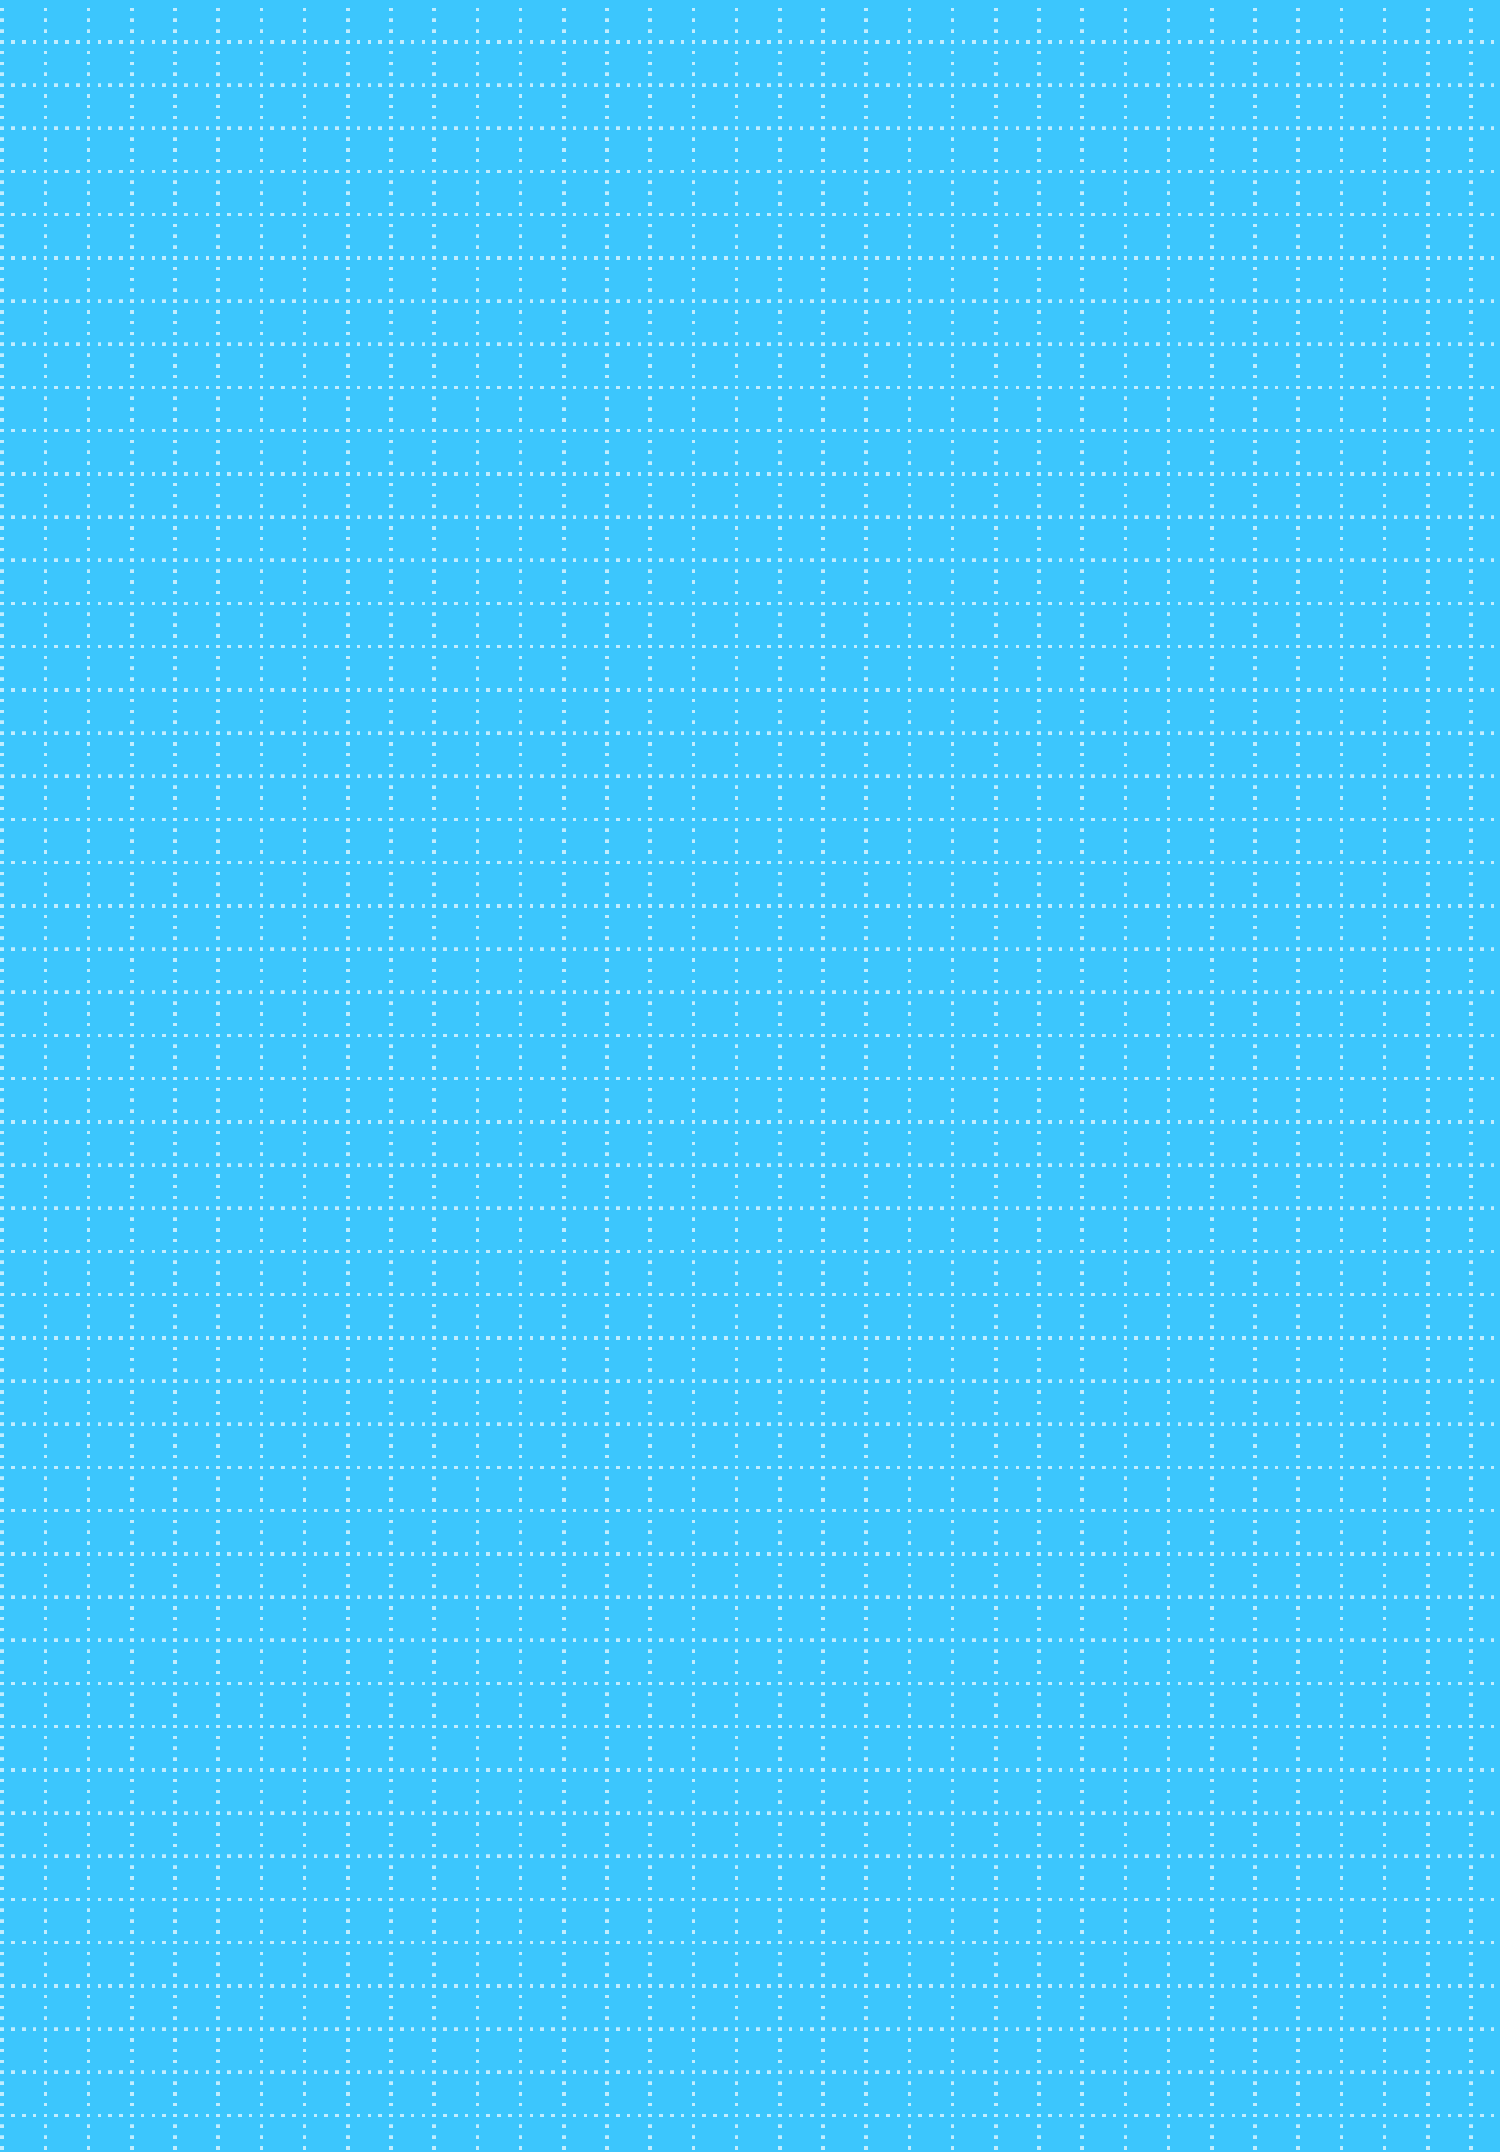
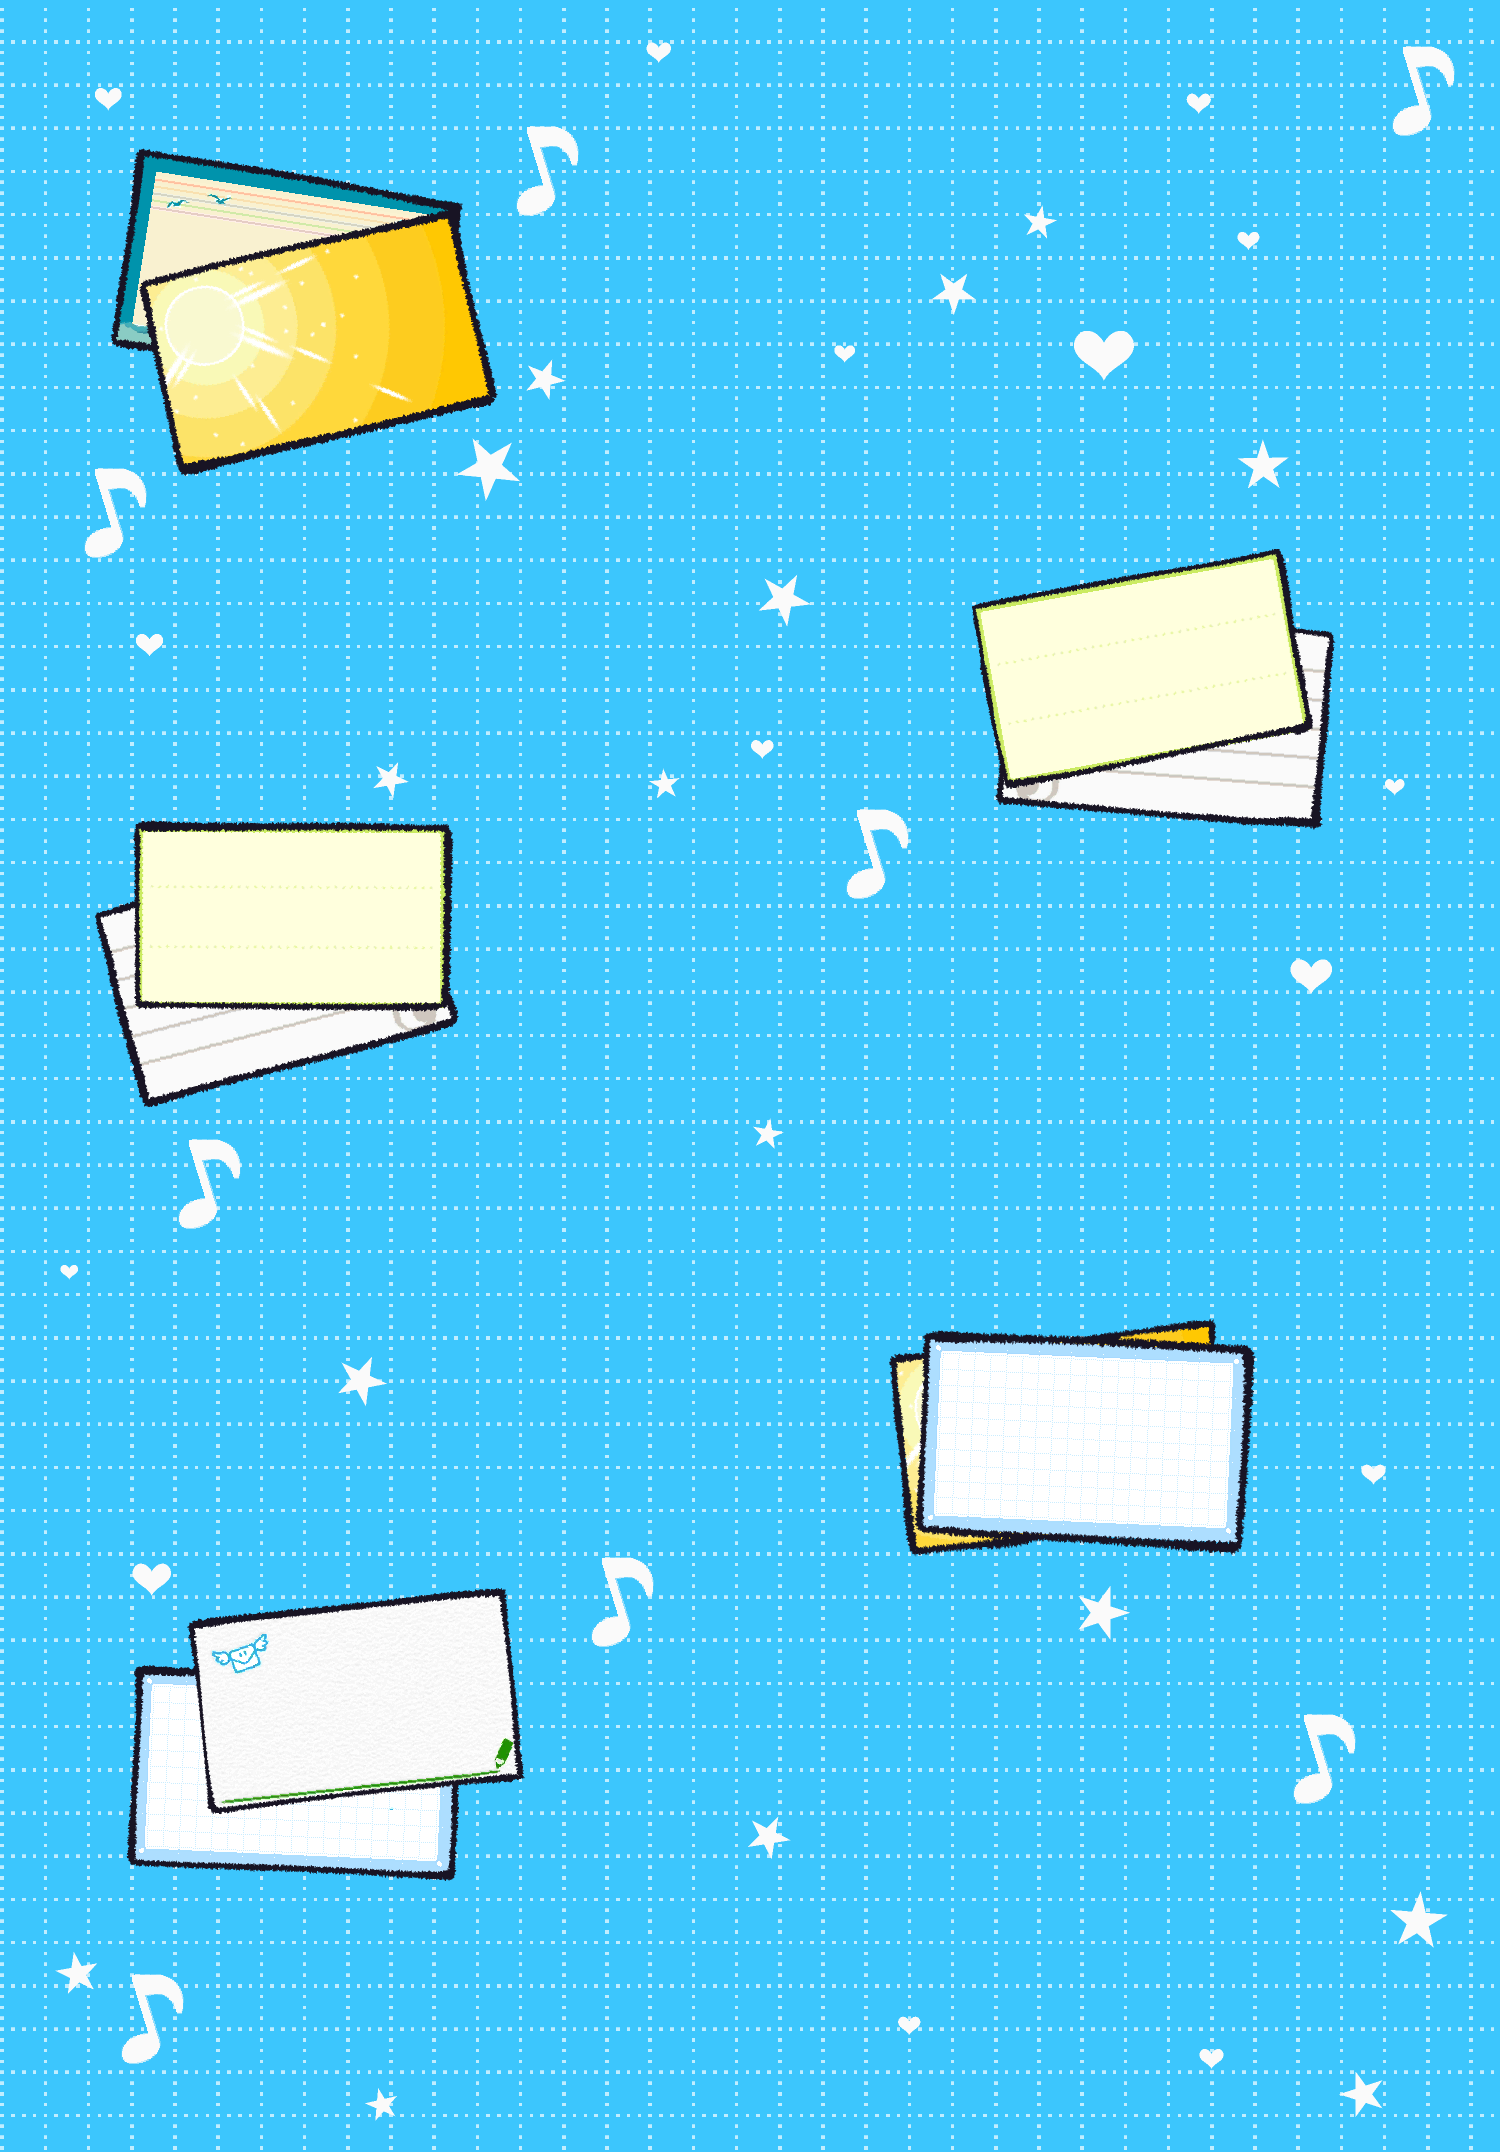
even more styling
changed header image, changed background, changed  navbar image

diff --git a/client/src/components/PostList/dist/PostList.js b/client/src/components/PostList/dist/PostList.js
@@ -1,0 +1,119 @@
+"use strict";
+var __awaiter = (this && this.__awaiter) || function (thisArg, _arguments, P, generator) {
+    function adopt(value) { return value instanceof P ? value : new P(function (resolve) { resolve(value); }); }
+    return new (P || (P = Promise))(function (resolve, reject) {
+        function fulfilled(value) { try { step(generator.next(value)); } catch (e) { reject(e); } }
+        function rejected(value) { try { step(generator["throw"](value)); } catch (e) { reject(e); } }
+        function step(result) { result.done ? resolve(result.value) : adopt(result.value).then(fulfilled, rejected); }
+        step((generator = generator.apply(thisArg, _arguments || [])).next());
+    });
+};
+var __generator = (this && this.__generator) || function (thisArg, body) {
+    var _ = { label: 0, sent: function() { if (t[0] & 1) throw t[1]; return t[1]; }, trys: [], ops: [] }, f, y, t, g;
+    return g = { next: verb(0), "throw": verb(1), "return": verb(2) }, typeof Symbol === "function" && (g[Symbol.iterator] = function() { return this; }), g;
+    function verb(n) { return function (v) { return step([n, v]); }; }
+    function step(op) {
+        if (f) throw new TypeError("Generator is already executing.");
+        while (_) try {
+            if (f = 1, y && (t = op[0] & 2 ? y["return"] : op[0] ? y["throw"] || ((t = y["return"]) && t.call(y), 0) : y.next) && !(t = t.call(y, op[1])).done) return t;
+            if (y = 0, t) op = [op[0] & 2, t.value];
+            switch (op[0]) {
+                case 0: case 1: t = op; break;
+                case 4: _.label++; return { value: op[1], done: false };
+                case 5: _.label++; y = op[1]; op = [0]; continue;
+                case 7: op = _.ops.pop(); _.trys.pop(); continue;
+                default:
+                    if (!(t = _.trys, t = t.length > 0 && t[t.length - 1]) && (op[0] === 6 || op[0] === 2)) { _ = 0; continue; }
+                    if (op[0] === 3 && (!t || (op[1] > t[0] && op[1] < t[3]))) { _.label = op[1]; break; }
+                    if (op[0] === 6 && _.label < t[1]) { _.label = t[1]; t = op; break; }
+                    if (t && _.label < t[2]) { _.label = t[2]; _.ops.push(op); break; }
+                    if (t[2]) _.ops.pop();
+                    _.trys.pop(); continue;
+            }
+            op = body.call(thisArg, _);
+        } catch (e) { op = [6, e]; y = 0; } finally { f = t = 0; }
+        if (op[0] & 5) throw op[1]; return { value: op[0] ? op[1] : void 0, done: true };
+    }
+};
+exports.__esModule = true;
+var react_1 = require("react");
+var react_router_dom_1 = require("react-router-dom");
+var client_1 = require("@apollo/client");
+var queries_1 = require("../../utils/queries");
+var mutations_1 = require("../../utils/mutations");
+require("./postList.css");
+var auth_1 = require("../../utils/auth");
+var CommentForm_1 = require("../CommentForm/CommentForm");
+var CommentList_1 = require("../CommentList/CommentList");
+var PostList = function (_a) {
+    var posts = _a.posts;
+    var _b;
+    var _c = react_1.useState(''), singlePostId = _c[0], setSinglePostId = _c[1];
+    var _d = client_1.useMutation(mutations_1.REMOVE_POST), removePost = _d[0], error = _d[1].error;
+    var data = client_1.useQuery(queries_1.QUERY_SINGLE_POST, {
+        variables: {
+            postId: singlePostId
+        }
+    }).data;
+    var singlePost = ((_b = data) === null || _b === void 0 ? void 0 : _b.post) || {};
+    var deletePost = function (event) { return __awaiter(void 0, void 0, void 0, function () {
+        var data_1, err_1;
+        return __generator(this, function (_a) {
+            switch (_a.label) {
+                case 0:
+                    console.log(event.currentTarget.id);
+                    _a.label = 1;
+                case 1:
+                    _a.trys.push([1, 3, , 4]);
+                    return [4 /*yield*/, removePost({
+                            variables: {
+                                postId: event.currentTarget.id
+                            }
+                        })];
+                case 2:
+                    data_1 = (_a.sent()).data;
+                    return [3 /*break*/, 4];
+                case 3:
+                    err_1 = _a.sent();
+                    console.error(err_1);
+                    return [3 /*break*/, 4];
+                case 4:
+                    window.location.reload();
+                    return [2 /*return*/];
+            }
+        });
+    }); };
+    var getPostId = function (event) {
+        var value = event.target.value;
+        ;
+        setSinglePostId(value);
+    };
+    var closeComments = function (event) {
+        setSinglePostId("");
+        console.log(singlePostId);
+    };
+    if (!posts.length) {
+        return react_1["default"].createElement("h3", null, "No Posts Yet");
+    }
+    return (react_1["default"].createElement("div", { className: "postlist-container" }, posts &&
+        posts.map(function (post) { return (react_1["default"].createElement("div", { className: "post-container", key: post._id },
+            react_1["default"].createElement("h4", { className: 'mail' },
+                react_1["default"].createElement(react_router_dom_1.Link, { to: "/profiles/" + post.postAuthor }, post.postAuthor),
+                react_1["default"].createElement("p", { className: "postdate" },
+                    "posted on ",
+                    post.createdAt)),
+            !post.postPic && (react_1["default"].createElement("div", { className: "post-text-container" },
+                react_1["default"].createElement("p", null, post.postText))),
+            post.postPic && (react_1["default"].createElement("div", { className: "post-pic-container" },
+                react_1["default"].createElement("div", { className: "post-pic" },
+                    react_1["default"].createElement("img", { className: "post-pic-image", src: post.postPic, alt: 'drawing' })))),
+            auth_1["default"].loggedIn() ? (react_1["default"].createElement("div", { className: "post-footer" },
+                react_1["default"].createElement("div", { className: "post-comment-link" }, post._id === singlePost._id ? (react_1["default"].createElement("div", null,
+                    react_1["default"].createElement("button", { className: "comment-close-btn", type: "submit", onClick: closeComments }, "Close Comments"),
+                    react_1["default"].createElement(CommentForm_1["default"], { postId: post._id }),
+                    react_1["default"].createElement(CommentList_1["default"], { comments: singlePost.comments }))) : (react_1["default"].createElement("button", { className: "post-comment-btn", type: "submit", value: post._id, onClick: getPostId }, "Comments"))),
+                react_1["default"].createElement("div", { className: "delete-btn-container" }, auth_1["default"].loggedIn() && auth_1["default"].getProfile().data.username === post.postAuthor ? (react_1["default"].createElement("button", { id: post._id, className: "delete-btn", type: "submit", onClick: deletePost }, "Delete Post")) : null))) : null)); })));
+};
+exports["default"] = PostList;
+
+//# sourceMappingURL=PostList.js.map

diff --git a/client/src/components/PostList/dist/PostList.min.js b/client/src/components/PostList/dist/PostList.min.js
@@ -1,0 +1,2 @@
+"use strict";var __awaiter=this&&this.__awaiter||function(e,l,c,s){return new(c=c||Promise)(function(t,a){function r(e){try{o(s.next(e))}catch(e){a(e)}}function n(e){try{o(s.throw(e))}catch(e){a(e)}}function o(e){e.done?t(e.value):function(t){return t instanceof c?t:new c(function(e){e(t)})}(e.value).then(r,n)}o((s=s.apply(e,l||[])).next())})},__generator=this&&this.__generator||function(a,r){var n,o,l,e,c={label:0,sent:function(){if(1&l[0])throw l[1];return l[1]},trys:[],ops:[]};return e={next:t(0),throw:t(1),return:t(2)},"function"==typeof Symbol&&(e[Symbol.iterator]=function(){return this}),e;function t(t){return function(e){return function(t){if(n)throw new TypeError("Generator is already executing.");for(;c;)try{if(n=1,o&&(l=2&t[0]?o.return:t[0]?o.throw||((l=o.return)&&l.call(o),0):o.next)&&!(l=l.call(o,t[1])).done)return l;switch(o=0,l&&(t=[2&t[0],l.value]),t[0]){case 0:case 1:l=t;break;case 4:return c.label++,{value:t[1],done:!1};case 5:c.label++,o=t[1],t=[0];continue;case 7:t=c.ops.pop(),c.trys.pop();continue;default:if(!(l=0<(l=c.trys).length&&l[l.length-1])&&(6===t[0]||2===t[0])){c=0;continue}if(3===t[0]&&(!l||t[1]>l[0]&&t[1]<l[3])){c.label=t[1];break}if(6===t[0]&&c.label<l[1]){c.label=l[1],l=t;break}if(l&&c.label<l[2]){c.label=l[2],c.ops.push(t);break}l[2]&&c.ops.pop(),c.trys.pop();continue}t=r.call(a,c)}catch(e){t=[6,e],o=0}finally{n=l=0}if(5&t[0])throw t[1];return{value:t[0]?t[1]:void 0,done:!0}}([t,e])}}};exports.__esModule=!0;var react_1=require("react"),react_router_dom_1=require("react-router-dom"),client_1=require("@apollo/client"),queries_1=require("../../utils/queries"),mutations_1=require("../../utils/mutations");require("./postList.css");var auth_1=require("../../utils/auth"),CommentForm_1=require("../CommentForm/CommentForm"),CommentList_1=require("../CommentList/CommentList"),PostList=function(e){function t(a){return __awaiter(void 0,void 0,void 0,function(){var t;return __generator(this,function(e){switch(e.label){case 0:console.log(a.currentTarget.id),e.label=1;case 1:return e.trys.push([1,3,,4]),[4,u({variables:{postId:a.currentTarget.id}})];case 2:return e.sent().data,[3,4];case 3:return t=e.sent(),console.error(t),[3,4];case 4:return window.location.reload(),[2]}})})}function a(e){var t=e.target.value;s(t)}function r(e){s(""),console.log(c)}var n,o=e.posts,l=react_1.useState(""),c=l[0],s=l[1],i=client_1.useMutation(mutations_1.REMOVE_POST),u=i[0],m=(i[1].error,(null===(n=client_1.useQuery(queries_1.QUERY_SINGLE_POST,{variables:{postId:c}}).data)||void 0===n?void 0:n.post)||{});return o.length?react_1.default.createElement("div",{className:"postlist-container"},o&&o.map(function(e){return react_1.default.createElement("div",{className:"post-container",key:e._id},react_1.default.createElement("h4",{className:"mail"},react_1.default.createElement(react_router_dom_1.Link,{to:"/profiles/"+e.postAuthor},e.postAuthor),react_1.default.createElement("p",{className:"postdate"},"posted on ",e.createdAt)),!e.postPic&&react_1.default.createElement("div",{className:"post-text-container"},react_1.default.createElement("p",null,e.postText)),e.postPic&&react_1.default.createElement("div",{className:"post-pic-container"},react_1.default.createElement("div",{className:"post-pic"},react_1.default.createElement("img",{className:"post-pic-image",src:e.postPic,alt:"drawing"}))),auth_1.default.loggedIn()?react_1.default.createElement("div",{className:"post-footer"},react_1.default.createElement("div",{className:"post-comment-link"},e._id===m._id?react_1.default.createElement("div",null,react_1.default.createElement("button",{className:"comment-close-btn",type:"submit",onClick:r},"Close Comments"),react_1.default.createElement(CommentForm_1.default,{postId:e._id}),react_1.default.createElement(CommentList_1.default,{comments:m.comments})):react_1.default.createElement("button",{className:"post-comment-btn",type:"submit",value:e._id,onClick:a},"Comments")),react_1.default.createElement("div",{className:"delete-btn-container"},auth_1.default.loggedIn()&&auth_1.default.getProfile().data.username===e.postAuthor?react_1.default.createElement("button",{id:e._id,className:"delete-btn",type:"submit",onClick:t},"Delete Post"):null)):null)})):react_1.default.createElement("h3",null,"No Posts Yet")};exports.default=PostList;
+//# sourceMappingURL=PostList.min.js.map

diff --git a/client/src/components/PostList/postList.css b/client/src/components/PostList/postList.css
@@ -17,10 +17,17 @@
    background-size: cover;
    background-repeat: no-repeat;
    border-radius: 15px;
-   border: 3px solid black;
-   margin-bottom: 8px;
+   border: 3px solid rgb(37, 29, 139);
+   box-shadow: 0px 2px 6px 0.1px #1e1c1fce;
+   margin-bottom: 15px;
 }
-
+.mail{
+   background-image: url(../../assets/mail_icon.png);
+   background-position: right;
+   background-size: contain;
+   background-repeat: no-repeat;
+   
+}
 .post-text-container{ 
    padding: 5px;
    background-color: white;

diff --git a/client/src/components/Header/header.css b/client/src/components/Header/header.css
@@ -9,10 +9,10 @@
   padding: 20px;
   background-color:  rgb(207, 162, 222);   
   border-bottom: solid 3px black;
-  background-image: url('../../assets/rainbow.png');
+  background-image: url('../../assets/wood.png');
   background-position: center;
-  background-size: cover;
-  background-repeat: no-repeat;
+  background-size: contain;
+  background-repeat: repeat;
 }
 
 .home-link {

diff --git a/client/src/components/PostList/PostList.tsx b/client/src/components/PostList/PostList.tsx
@@ -73,7 +73,8 @@ const PostList:FunctionComponent<PostProps> = ( {posts
       {posts &&
         posts.map((post: Post ) => (
         <div className="post-container"key={post._id} >
-          <h4>          
+          <h4 className='mail'>          
+  
             <Link to={`/profiles/${post.postAuthor}`}>
                   {post.postAuthor}              
             </Link>  

diff --git a/client/src/components/Navbar/navbar.css b/client/src/components/Navbar/navbar.css
@@ -9,7 +9,10 @@
     border-left: 3px solid black;
     border-right: 3px solid black;
 
-    background-color: rgb(255, 255, 255);
+    background-image: url('../../assets/rainbow.png');
+    background-position: center;
+    background-size: cover;
+    background-repeat: no-repeat;
     width: 100%;
     transition: background-color 0.3s;
     border-bottom-right-radius: 50px;

diff --git a/client/src/pages/Home/home.css b/client/src/pages/Home/home.css
@@ -52,7 +52,10 @@
     display: flex;
     flex-direction: column;
     align-items: center;   
-    background-color: antiquewhite;
+    background-image: url('../../assets/home_post.png');
+    background-position: center;
+    background-size: cover;
+    background-repeat: no-repeat;
     border: 3px solid black;
     border-radius: 20px;
     padding:20px;
